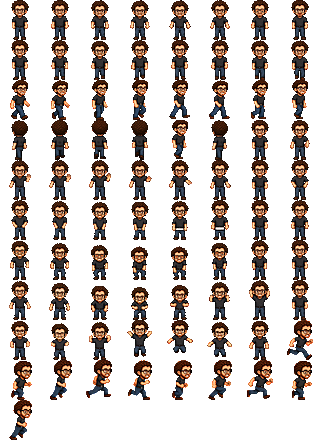
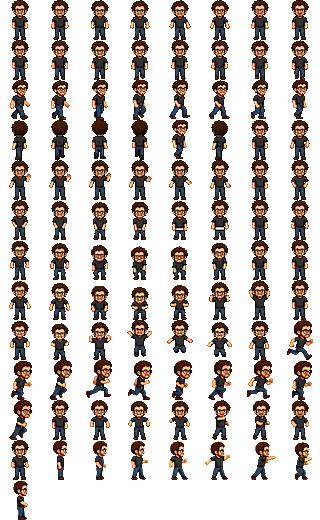
Colin can throw a punch
The attack sheets arrived as files. Eight frames from the front, eight from the
side, and killing somebody now looks like something rather than being announced:
pick a way from the END tray and he turns to face them and swings, while their
topple eases in over a third of a second - so the punch and the fall overlap
instead of the body dropping before the arm has moved.

PUNCH is also in the emote tray on its own, for hitting nothing in particular.

The side sheet is the right-facing one, mirrored for left like every other side
clip here. The authored left-facing sheet is not packed: eight more frames on an
atlas that has already outgrown a palette is a poor trade for a mirror the
engine does anyway. "attack" is the front view and is also the name capability
detection looks for; poseFor swaps in attack_side when that is the view you are
showing, the same way walk does.

A TEST HAD A COPY OF SOMETHING IT SHOULD HAVE ASKED FOR. The emote suite kept
its own clip-name-to-button-label map, which went stale the moment a button was
added and cost a full suite run to notice. It reads the label off the game now.
The general shape of that mistake has already cost this project a shipped bug;
the answer is the same every time, which is to have one copy.

69 browser assertions and 36 identity assertions.

diff --git a/src/game/game.ts b/src/game/game.ts
@@ -229,6 +229,7 @@ export class Game {
             x: Math.round(p.x),
             y: Math.round(p.y),
             emote: p.emote,
+            dir: p.dir,
             running: p.running,
             carrying: p.carrying,
             ascended: p.ascended,
@@ -236,7 +237,7 @@ export class Game {
             room: p.room,
             isLocal: p.id === this.local.id,
           })),
-        emotes: () => this.emotes.map((e) => e.clip),
+        emotes: () => this.emotes.map((e) => ({ clip: e.clip, label: e.label })),
         mood: () => this.mood,
         summoned: () => this.summoned,
         reach: () => this.reach,
@@ -1054,6 +1055,19 @@ export class Game {
       ? this.room.def.props[this.local.carrying]?.sprite ?? ""
       : "";
     this.grudge = null;
+    // Swing first. The victim's topple eases in over a third of a second, so the punch
+    // and the fall overlap rather than the body dropping before the arm moves.
+    const victim = this.players.get(victimId);
+    if (victim) {
+      this.local.dir = Math.abs(victim.x - this.local.x) >= Math.abs(victim.y - this.local.y)
+        ? victim.x < this.local.x
+          ? "left"
+          : "right"
+        : victim.y < this.local.y
+          ? "up"
+          : "down";
+    }
+    this.emote("attack");
     this.fireEffect(doomEffect(victimId, cause, held), this.local.name);
   }
 

diff --git a/src/game/core/anim.ts b/src/game/core/anim.ts
@@ -61,7 +61,12 @@ export function poseFor(player: Player, meta: CharacterMeta, speed: number): Pos
   }
 
   if (emote?.kind === "art") {
-    clipName = emote.name;
+    // A punch is drawn from the front and from the side, like the walk is. "attack" is
+    // the front one and the name capability detection looks for; this picks the profile
+    // view when that is what you are showing, and mirrors it for left as usual.
+    const side = suffix(player.dir) === "side";
+    clipName =
+      emote.name === "attack" && side && meta.clips.attack_side ? "attack_side" : emote.name;
     time = player.emoteTime;
   } else if (player.carrying >= 0 && !player.moving && meta.clips.lift) {
     // Standing still holding something: hold the last frame of the lift, which ends with

diff --git a/src/game/core/emotes.ts b/src/game/core/emotes.ts
@@ -202,6 +202,7 @@ export const EMOTES: EmoteDef[] = [
   { clip: "spin", label: "SPIN", glyph: "\u{1F300}", proc: "spin" },
   { clip: "panic", label: "PANIC", glyph: "\u{1F631}", proc: "panic" },
   { clip: "faint", label: "FAINT", glyph: "\u{1F480}", proc: "faint" },
+  { clip: "attack", label: "PUNCH", glyph: "\u{1F44A}", art: "attack" },
   { clip: "laptop", label: "WORK", glyph: "\u{1F4BB}", art: "laptop" },
 ];
 

diff --git a/src/game/core/assetVersion.ts b/src/game/core/assetVersion.ts
@@ -7,4 +7,4 @@
  *
  * DO NOT EDIT. Run `npm run assets`.
  */
-export const ASSET_VERSION = "c888a88f790c";
+export const ASSET_VERSION = "a786de739f14";

diff --git a/tools/build_sprites.py b/tools/build_sprites.py
@@ -82,6 +82,19 @@ CHARACTERS: dict[str, dict] = {
             # Ten frames of a side run. The file has been sitting here since the first
             # batch, named for a front view it does not contain, wired to nothing.
             Clip("run_side", "Colin_front_front_run_run_sheet.png", tuple(range(10)), 14),
+            # Throwing a punch. "attack" is the front view and is also what capability
+            # detection looks for; poseFor swaps in attack_side when facing sideways.
+            # The authored left-facing sheet is not packed - every other side clip in this
+            # game is drawn facing right and mirrored, and 8 more frames on an atlas that
+            # has already outgrown a palette is a poor trade for a mirror we do anyway.
+            Clip("attack", "Colin_front_attack_sheet.png", tuple(range(8)), 13, loop=False),
+            Clip(
+                "attack_side",
+                "Colin_front_right_idle_attack_right_sheet.png",
+                tuple(range(8)),
+                13,
+                loop=False,
+            ),
         ],
     },
     "michael": {

diff --git a/README.md b/README.md
@@ -227,6 +227,18 @@ in the real manifest, and fails if any of them indexes a frame outside that char
 own atlas. The arithmetic is the risky part: an off-by-one there draws somebody else's
 sprite, and it would look like a glitch rather than a bug.
 
+### Punching
+
+Colin has a front attack and a side attack, eight frames each. **PUNCH** is in the emote
+tray, and it is also what killing somebody looks like: pick a way from the END tray and
+he turns to face them and swings, while their topple eases in over a third of a second —
+so the punch and the fall overlap rather than the body dropping before the arm moves.
+
+The side sheet is authored facing right and mirrored for left, like every other side clip
+here. There is an authored left-facing sheet too; it is not packed, because eight more
+frames on an atlas that has already outgrown a palette is a poor trade for a mirror the
+engine does anyway.
+
 ### Ways to go
 
 You can kill anybody in the room, and anybody can kill you. Walk up to somebody, tap
